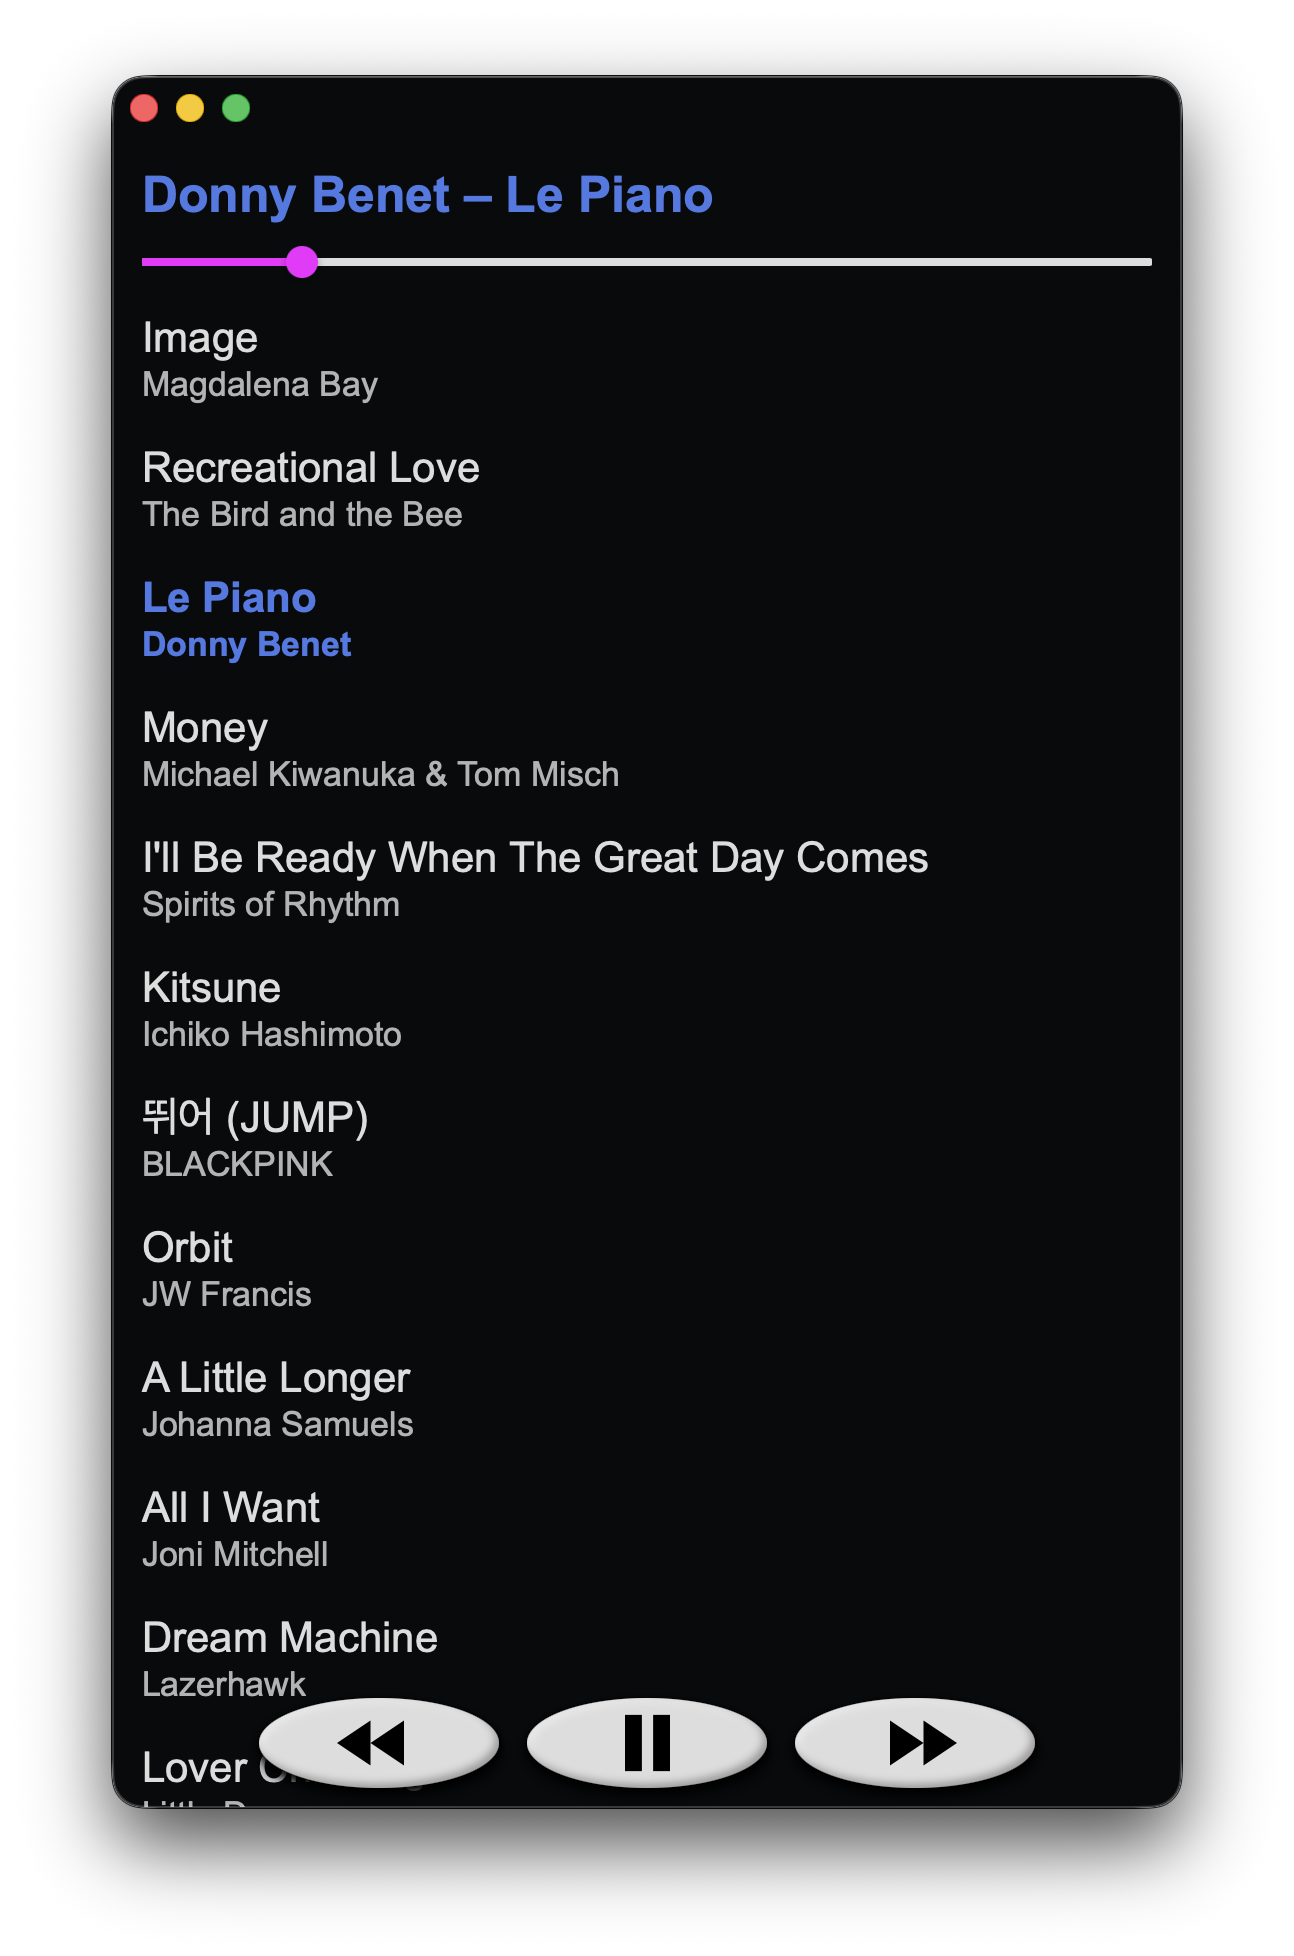
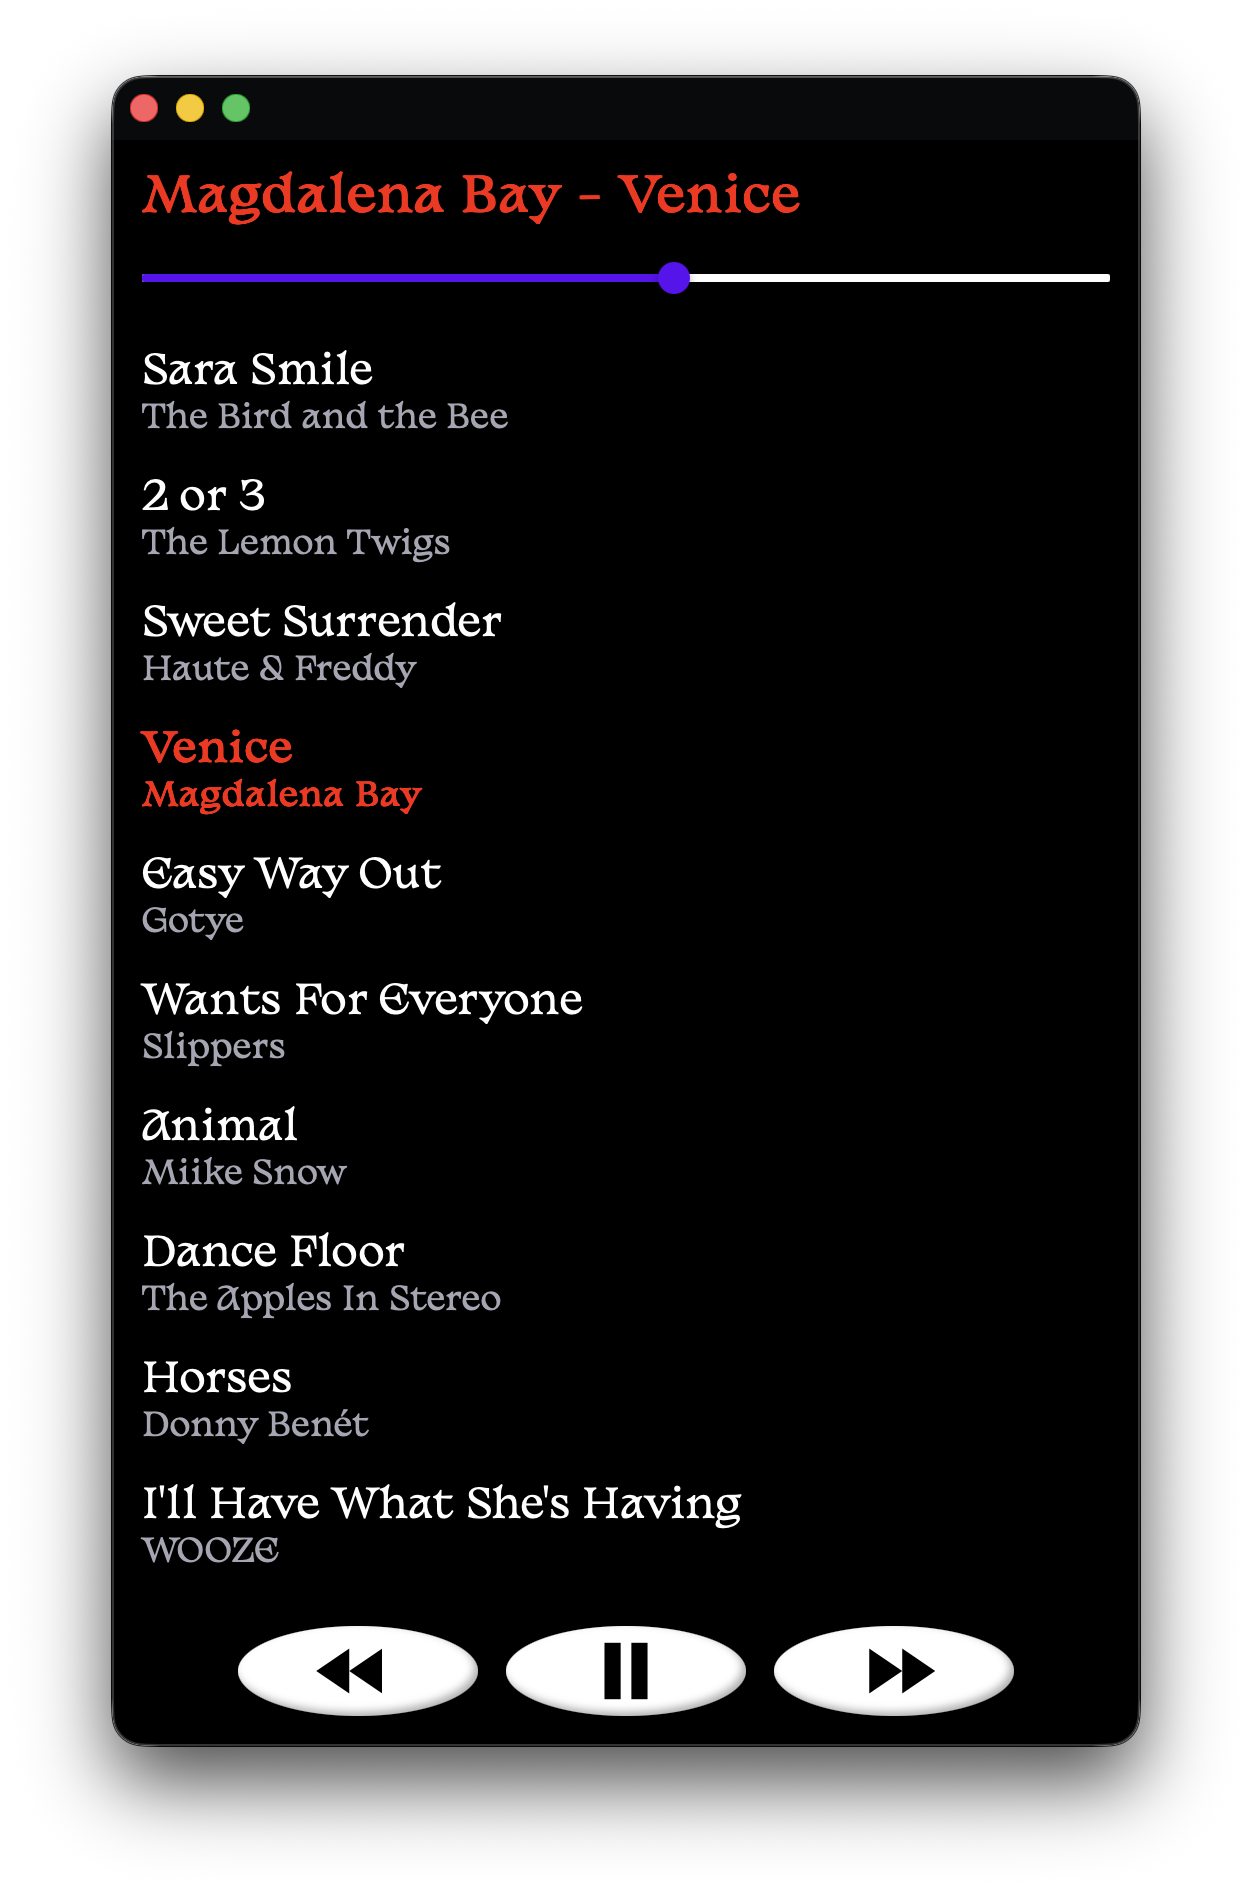
update default styling

Changed region(s): [[0.0623, 0.0312, 0.9345, 0.9345], [0.405, 0.4361, 0.7165, 0.4673]]

diff --git a/resources/styles.css b/resources/styles.css
@@ -1,9 +1,17 @@
+@font-face {
+	font-family: 'Basteleur Moonlight';
+	src: url('fonts/Basteleur/Basteleur-Moonlight.woff2') format('woff2');
+	font-weight: normal;
+	font-style: normal;
+	font-display: swap;
+}
+
 :root {
-	--text: #dddddd;
-	--dimmed-text: #ddddddcc;
-	--primary: #4c7ae6;
-	--accent: #f421ff;
-	--background: #080a0c;
+	--primary: #ff1900;
+	--accent: #5d0cf4;
+	--background: #000000;
+	--text: #ffffff;
+	--dimmed-text: #a6a6b4;
 }
 
 * {
@@ -32,11 +40,11 @@ html::-webkit-scrollbar {
 body {
 	margin: 0;
 	padding: 0;
-	font-family: "MS Sans Serif", Arial, sans-serif;
+	font-family: 'Basteleur Moonlight', sans-serif;
 	height: 100dvh;
 	display: flex;
 	flex-direction: column;
-	font-size: 25px;
+	font-size: 24px;
 	background-color: var(--background);
 	position: fixed;
 	width: 100%;
@@ -162,7 +170,7 @@ body {
 }
 
 .playlist-item-title {
-	font-size: 21px;
+	font-size: 20px;
 	line-height: 1.2;
 }
 
@@ -172,7 +180,7 @@ body {
 }
 
 .playlist-item-artist {
-	font-size: 17px;
+	font-size: 16px;
 	color: var(--dimmed-text);
 	line-height: 1.2;
 }
@@ -186,16 +194,21 @@ body {
 @media (hover: hover) and (pointer: fine) {
 	.playlist-item:hover {
 		cursor: pointer;
-		color: var(--accent);
 	}
 
+	.playlist-item:hover .playlist-item-title,
 	.playlist-item:hover .playlist-item-artist {
-		color: var(--accent);
+		color: var(--text);
+		background-color: var(--accent);
+		align-self: flex-start;
+		padding: 0 4px;
+		margin-left: -4px;
 	}
 
 	.playlist-item:hover .playlist-item-title.current,
 	.playlist-item:hover .playlist-item-artist.current {
-		color: var(--accent);
+		background-color: var(--primary);
+		color: var(--background);
 	}
 
 	body.reorderable .playlist,
@@ -219,10 +232,19 @@ body.reordering .playlist-item {
 	box-sizing: border-box;
 }
 
-.playlist-item.dragging,
 .playlist-item.dragging .playlist-item-title,
 .playlist-item.dragging .playlist-item-artist {
-	color: var(--accent);
+	color: var(--text);
+	background-color: var(--accent);
+	align-self: flex-start;
+	padding: 0 4px;
+	margin-left: -4px;
+}
+
+.playlist-item.dragging .playlist-item-title.current,
+.playlist-item.dragging .playlist-item-artist.current {
+	background-color: var(--primary);
+	color: var(--background);
 }
 
 .playlist-item-placeholder {
@@ -262,7 +284,7 @@ body.reordering .playlist-item {
 
 .progress-container {
 	width: 100%;
-	font-size: 24px;
+	font-size: 23px;
 	cursor: grab;
 	margin-top: 0;
 	height: 35px;

diff --git a/resources/script.js b/resources/script.js
@@ -87,6 +87,7 @@ const staticFiles = [
 	'resources/prev.svg',
 	'resources/next.svg',
 	'resources/repeat.svg',
+	'resources/fonts/Basteleur/Basteleur-Moonlight.woff2',
 ];
 
 // Retry fetch with exponential backoff

diff --git a/build.py b/build.py
@@ -146,6 +146,7 @@ def build_pwa(app_name=None, base_path=None):
 		"resources/prev.svg",
 		"resources/next.svg",
 		"resources/repeat.svg",
+		"resources/fonts/Basteleur/Basteleur-Moonlight.woff2",
 	]
 
 	AUDIO_EXTS = {".mp3", ".m4a", ".ogg", ".flac", ".wav"}

diff --git a/readme.md b/readme.md
@@ -73,5 +73,7 @@ ensure you have the right to distribute any media files you include in public mi
 
 it may have looked like i winked just now, but that was a blink. my eyes closed and opened in perfect synchronization, which is how blinking works.
 
-## license
-<a href="LICENSE">GNU GPLv3</a>
+## licenses
+this project is licensed under the <a href="LICENSE">GNU General Public License v3.0</a>.
+
+the <a href="https://velvetyne.fr/fonts/basteleur/">Basteleur</a> font by <a href="https://keussel.studio/">Keussel</a> (distributed by <a href="https://velvetyne.fr/">Velvetyne</a>) is licensed under the <a href="resources/fonts/Basteleur/LICENSE.txt">SIL Open Font License, version 1.1</a>.
